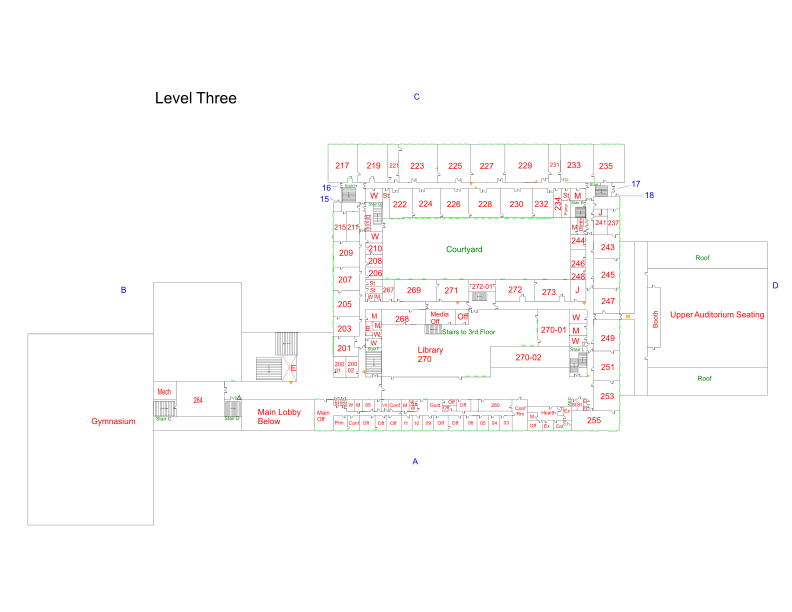
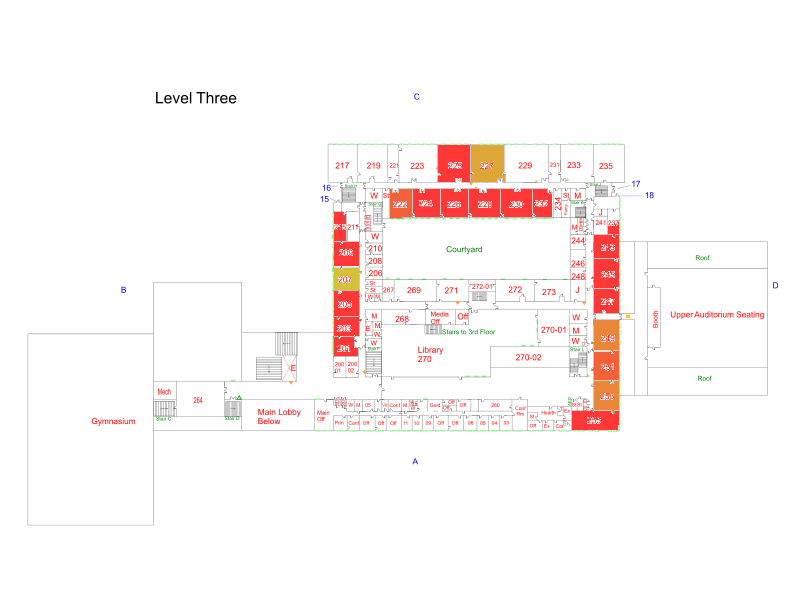
Attempt mass flood fill, README

Changed region(s): [[0.697, 0.3725, 0.7879, 0.7141], [0.4848, 0.2173, 0.697, 0.3725], [0.4242, 0.3415, 0.4545, 0.5899]]

diff --git a/static/js/AjaxManager.js b/static/js/AjaxManager.js
@@ -69,10 +69,8 @@ function getRooms() {
     return rooms;
 }
 
-let currentRoomInfo = [];
 
-function getRoomInfo(room) {
-    // [[topLeftX, topLeftY, bottomLeftX, bottomLeftY, bottomLeftX, bottomLeftY, topRightX, topRightY] (All as a % of the width or height), color (Do it later), temperature, units]
+function fillRoom(room) {
     $.ajax({
         dataType: "json",
         url: "/fillRoom",
@@ -80,7 +78,9 @@ function getRoomInfo(room) {
         async: false,
     }).done(json => {
         if (json.status === "Ok!") {
-            currentRoomInfo = [json.coords, json.measure, json.units]
+            // Do nothing
+        } else if (json.status.startsWith('No room labeled')) {
+            document.getElementById("errors").innerHTML += `<br />Sorry, but an internal error has occurred: ${json.status}`;
         }
         else {
             document.getElementById("errors").innerHTML += `<br />Sorry, but an internal error has occurred whilst getting data for room ${room}. Please try again later...`;
@@ -88,8 +88,4 @@ function getRoomInfo(room) {
     }).fail(() => {
         document.getElementById("errors").innerHTML += `<br />Sorry, but an internal error has occurred whilst getting data for room ${room}. Please try again later...`;
     });
-}
-
-function getCurrentRoomInfo() {
-    return currentRoomInfo;
 }

diff --git a/static/js/SVGManager.js b/static/js/SVGManager.js
@@ -24,21 +24,6 @@ async function start_script() {
     let rooms = getRooms();
 
     rooms.forEach((room) => {
-        // [[topLeftX, topLeftY, bottomLeftX, bottomLeftY, bottomLeftX, bottomLeftY, topRightX, topRightY] (All as a % of the width or height), color (Do it later), temperature, units]
-        getRoomInfo(room);
-        let roomInfo = getCurrentRoomInfo();
-
-        if (roomInfo.length !== 0) {
-            //<path d="M 100 100 L 300 100 L 300 300 L 100 300 Z" stroke="green" stroke-width="3" fill="green" />
-            let coords = roomInfo[0];
-
-            let path = document.createElementNS("http://www.w3.org/2000/svg", "path");
-            path.setAttributeNS(null, "d", `M ${Math.round(coords[0] * svg_width)} ${Math.round(coords[1] * svg_height)} L ${Math.round(coords[2] * svg_width)} ${Math.round(coords[3] * svg_height)} L ${Math.round(coords[4] * svg_width)} ${Math.round(coords[5] * svg_height)} L ${Math.round(coords[6] * svg_width)} ${Math.round(coords[7] * svg_height)} Z`);
-            path.setAttributeNS(null, "stroke", "green");
-            path.setAttributeNS(null, "stroke-width", "3");
-            path.setAttributeNS(null, "fill", "green");
-
-            svg.appendChild(path);
-        }
-    })
+       fillRoom(room);
+    });
 }

diff --git a/Main.py b/Main.py
@@ -1,11 +1,9 @@
-import os
-import argparse
-import pandas as pd
 import datetime
 import time
 from bacnet_gateway_requests import get_value_and_units
 from PyPDF2 import PdfFileReader
 from FileHelpers import *
+from colour import Color
 
 pdf_path = None
 svg_path = None
@@ -18,6 +16,12 @@ HOSTNAME = None
 PORT = None
 DATA_PATH = None
 data = None
+
+BLUE_VALUE = (60, 600)
+GREEN_VALUE = (70, 800)
+RED_VALUE = (80, 1000)
+
+GRADIENTS = generate_gradients(BLUE_VALUE, GREEN_VALUE, RED_VALUE)
 
 
 def init(hostname, port, data_path):
@@ -110,7 +114,16 @@ def update_with_data(temp_data):
     return 'Ok!' if data is not None else 'Error!'
 
 
-def fill_room(room, measure, units):
+def get_color_index_from_measure(measure, c02):
+    if measure <= BLUE_VALUE[c02]:
+        return 0
+    elif measure >= RED_VALUE[c02]:
+        return len(GRADIENTS[c02]) - 1
+    else:
+        return (RED_VALUE[c02] - BLUE_VALUE[c02]) - (RED_VALUE[c02] - measure)
+
+
+def fill_chosen_room(room, measure, units):
     while DATA_PATH is None:
         time.sleep(1)
         continue
@@ -121,6 +134,13 @@ def fill_room(room, measure, units):
         x = int(round(selected_row['x0']))
         y = int(round(selected_row['y0']))
 
-        color = (255, 255, 0, 255)
+        color = GRADIENTS[0][get_color_index_from_measure(measure, 0)].rgb
+        color = list(tuple([int(round(255 * x)) for x in color]))
+        color.append(200)
+        color = tuple(color)
 
         flood_fill(png_path, (x, y), color)
+
+        return True
+
+    return False

diff --git a/FileHelpers.py b/FileHelpers.py
@@ -8,6 +8,7 @@ from pdfminer.layout import LAParams
 from pdfminer.converter import PDFPageAggregator
 from pathlib import Path
 from PIL import Image, ImageDraw
+from colour import Color
 import pdfminer
 import pandas as pd
 import os
@@ -83,6 +84,21 @@ def get_text_and_coordinates(pdf_path):
         return df
 
 
+def generate_gradients(blue, green, red):
+    gradients = []
+
+    for counter in range(len(blue)):
+        g_to_b = green[counter] - blue[counter]
+        r_to_g = red[counter] - green[counter]
+
+        colors = list(Color("blue").range_to(Color("green"), g_to_b)) + list(
+            Color("green").range_to(Color("red"), r_to_g))
+
+        gradients.append(colors)
+
+    return tuple(gradients)
+
+
 def svg_to_png(svg_path, output_path, dpi):
     # Delete the file if it exists, as inkscape won't overwrite
     try:
@@ -117,7 +133,7 @@ def flood_fill(png_path, room_coords, color):
 
     width, height = img.size
 
-    coordinate = (room_coords[0], height - room_coords[1])
+    coordinate = (room_coords[0], int(height - room_coords[1]))
 
-    ImageDraw.floodfill(img, coordinate, value=color, thresh=5)
+    ImageDraw.floodfill(img, coordinate, value=color, thresh=0)
     img.save(png_path)

diff --git a/app.py b/app.py
@@ -82,8 +82,12 @@ def fill_room():
         measure = int(selected_row.iloc[0]['Temperature'])
         units = str(selected_row.iloc[0]['Temperature Units'])
 
-        fill_room(room, measure, units)
-        return json.dumps({"status": "Ok!", "measure": measure, "units": units})
+        room_exists = fill_chosen_room(room, measure, units)
+
+        if room_exists:
+            return json.dumps({"status": "Ok!"})
+        else:
+            return json.dumps({"status": "No room labeled \'{0}\' found!".format(room)})
 
     return json.dumps({"status": "No Data!"})
 

diff --git a/README.md b/README.md
@@ -18,6 +18,7 @@ If this functionality is implemented, temperature data should be inputted from a
 
 ### Dependencies
 If you want to run this script on your server (or something along those lines), it requires the following:
+* [Colour](https://pypi.org/project/colour/)
 * [Flask](http://flask.pocoo.org/)
 * [Inkscape](https://inkscape.org/en/) (installed and added to the PATH)
 * [Pandas](http://pandas.pydata.org/)
@@ -25,6 +26,7 @@ If you want to run this script on your server (or something along those lines), 
 * [PIL](https://pypi.org/project/PIL/) (Python Imaging Library)
 * [PyPDF2](https://pypi.org/project/PyPDF2/)
 * [Python 3+](https://www.python.org/downloads/)
+* [Requests](http://docs.python-requests.org/en/master/)
 
 ### Setup
 
